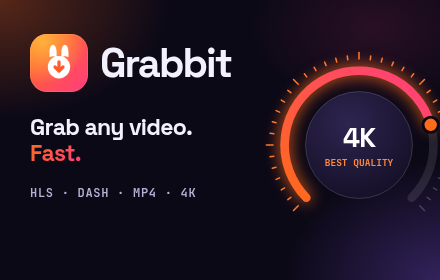
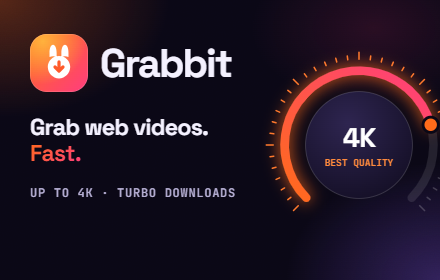
web store update

diff --git a/wxt.config.ts b/wxt.config.ts
@@ -10,7 +10,7 @@ export default defineConfig({
     name: 'Grabbit — Video Downloader',
     short_name: 'Grabbit',
     description:
-      'Grab web videos in the best available quality. Parallel turbo downloads for HLS, DASH, MP4 & WebM with full quality control.',
+      'Grab web videos in the best available quality, with fast parallel downloads and full control over quality, audio and subtitles.',
     minimum_chrome_version: '116',
     homepage_url: 'https://github.com/mohitbansal25082006/Grabbit',
     permissions: [

diff --git a/store/LISTING.md b/store/LISTING.md
@@ -42,9 +42,9 @@ Dashboard → **Items** → **+ New item** → upload `store/grabbit-1.0.0-chrom
 Grabbit — Video Downloader
 ```
 
-**Summary** (from the manifest, 124/132 characters)
+**Summary** (from the manifest, 127/132 characters)
 ```
-Grab web videos in the best available quality. Parallel turbo downloads for HLS, DASH, MP4 & WebM with full quality control.
+Grab web videos in the best available quality, with fast parallel downloads and full control over quality, audio and subtitles.
 ```
 
 **Description**
@@ -65,7 +65,7 @@ Grabbit finds the videos on the page you're watching and saves them in the quali
 • Large files are written straight to disk, so multi-GB downloads don't fill your memory.
 
 🔎 FINDS THE STREAMS OTHERS MISS
-• Detects HLS (.m3u8), MPEG-DASH (.mpd), MP4, WebM, MKV, MOV, MP3, M4A and more.
+• Works with both adaptive streaming video and ordinary video and audio files.
 • Catches streams loaded through a site's own player code and embedded players inside frames.
 • Groups different sizes of the same video into one card, and filters out ads, previews and tiny clips.
 • Record while playing: for players that hide their video links, Grabbit can record exactly what plays (optional Turbo 8× to finish long videos quickly) and save it as one clean file.
